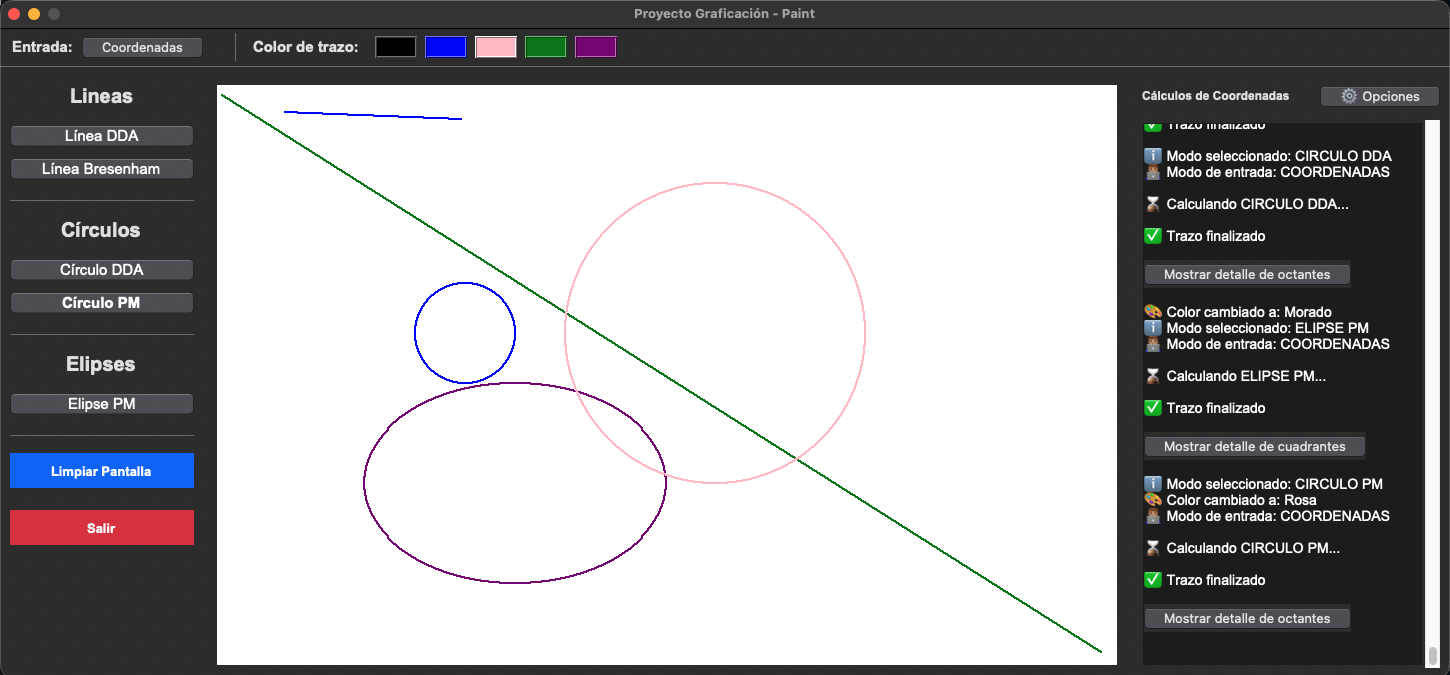
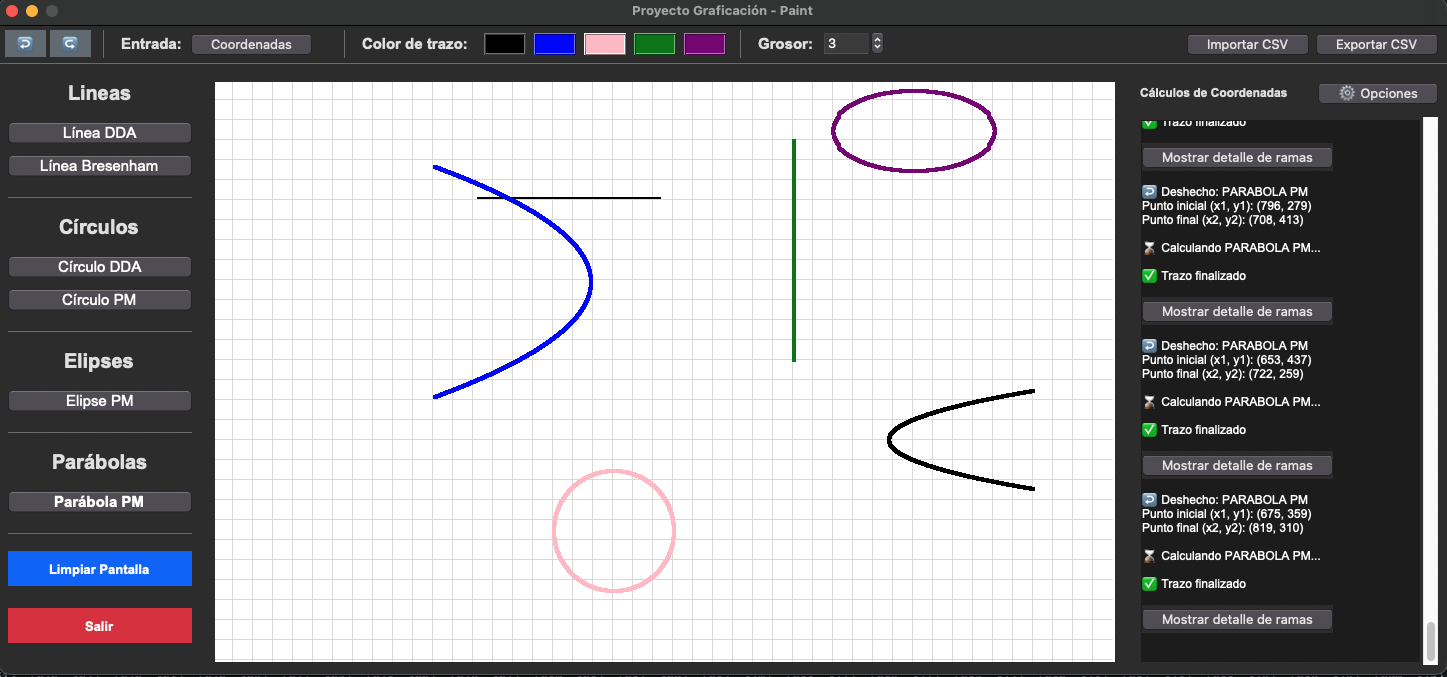
feat: update README and assets with new features, including CSV import/export, undo/redo, and additional UI elements

diff --git a/README.md b/README.md
@@ -3,7 +3,7 @@
 Este proyecto es una aplicación de escritorio desarrollada en Python utilizando Tkinter. Simula un programa de dibujo básico (estilo Paint) con el propósito de demostrar la implementación matemática pura de algoritmos fundamentales de graficación por computadora (rasterización de primitivas).
 
 **Autor:** Fernando Soriano  
-**Programa:** Ingeniería en Sistemas Computacionales
+**Programa:** Ingeniería en Sistemas Computacionales  
 **Materia:** Graficación por Computadora (GPC)
 
 ---
@@ -28,6 +28,19 @@ El núcleo de la aplicación radica en que **no utiliza funciones nativas** del 
 
 ---
 
+## ✨ Características Extra
+
+Además de los requerimientos base del proyecto, se agregaron las siguientes funcionalidades adicionales por decisión propia, para extender la utilidad de la aplicación más allá de lo solicitado originalmente:
+
+- **Exportación de coordenadas a CSV:** botón **"Exportar"** que guarda todos los trazos dibujados (herramienta, puntos, color, grosor y grupo de simetría) en un archivo `.csv`, seleccionando las columnas deseadas.
+- **Importación de coordenadas desde CSV:** botón **"Importar"** que lee un archivo `.csv` con el mismo formato exportado y reconstruye los trazos sobre el lienzo, permitiendo elegir entre reemplazar el dibujo actual o añadir los trazos importados a los existentes.
+- **Grosor de trazo configurable:** control tipo _Spinbox_ (1 a 10) en la barra superior para definir el grosor del "pixel" simulado antes de dibujar una nueva figura.
+- **Deshacer / Rehacer:** botones ↩️/↪️ para deshacer o rehacer el último trazo dibujado, con historial completo de la sesión de dibujo.
+- **Cuadrícula de fondo y modo oscuro del lienzo:** casillas de verificación en la ventana de opciones (⚙️) que alternan, en tiempo real, una cuadrícula de referencia sobre el lienzo y un tema oscuro para el área de dibujo.
+- **Animación de trazado:** opción que activa un renderizado progresivo (pixel por pixel, con velocidad configurable en ms) de líneas, círculos, elipses y parábolas, en lugar de dibujarlos de forma instantánea — útil para visualizar cómo avanza cada algoritmo.
+
+---
+
 ## 📂 Estructura del Proyecto
 
 El proyecto sigue una arquitectura Modelo-Vista-Controlador (MVC) simplificada para separar la lógica matemática de la interfaz gráfica.
@@ -38,13 +51,16 @@ proyecto_final/
 ├── controllers/
 │   └── app_controller.py   # Lógica de control, manejo de eventos (clics, botones) e instanciación de algoritmos.
 ├── ui/
-│   └── canvas_manager.py   # Manejo directo del lienzo (canvas), dibujado de pixeles y limpieza de pantalla.
+│   ├── canvas_manager.py   # Manejo directo del lienzo (canvas): dibujado de pixeles, cuadrícula, modo oscuro y redraw() del historial.
 │   └── main_window.py      # Definición de la vista (Tkinter), menús, paleta de colores y lienzo.
-└── algorithms/
-    ├── circunferencias.py  # Clases DDA y Punto Medio para círculos.
-    ├── elipse.py           # Clase con el algoritmo de Punto Medio para elipses.
-    ├── lineas.py           # Clases con los algoritmos DDA y Bresenham para líneas.
-    └── parabola.py         # Clase con el algoritmo para trazado de parábolas.
+├── algorithms/
+│   ├── circunferencias.py  # Clases DDA y Punto Medio para círculos.
+│   ├── elipse.py           # Clase con el algoritmo de Punto Medio para elipses.
+│   ├── lineas.py           # Clases con los algoritmos DDA y Bresenham para líneas.
+│   └── parabola.py         # Clase con el algoritmo de Punto Medio para trazado de parábolas.
+└── utils/
+    ├── export_data.py      # Exportación del historial de trazos a un archivo CSV.
+    └── import_data.py      # Reconstrucción de trazos a partir de un archivo CSV.
 ```
 
 ## 🛠️ Instrucciones de Ejecución
@@ -76,20 +92,41 @@ proyecto_final/
 
 ## 📸 Capturas de Pantalla
 
-![Interfaz principal de la aplicación mostrando trazos en el lienzo](assets/captura_principal.png)
+### Funcionalidad base
+
+![Interfaz principal de la aplicación mostrando trazos en el lienzo](assets/captura_principal.png)  
 _Vista general de la aplicación en ejecución, destacando el menú lateral de herramientas, la paleta de colores y el lienzo de dibujo._
 
 ---
 
-![Panel derecho de registro de cálculos y ventana de opciones de configuración](assets/ventana_opciones.png)
+![Panel derecho de registro de cálculos y ventana de opciones de configuración](assets/settings.png)  
 _Ventana modal para ajustar dinámicamente el tamaño de letra de los textos._
 
 ---
 
-![Formulario modal para ingresar de manera manual el radio y las coordenadas de un círculo](assets/coordenadas_circulo.png)
+![Formulario modal para ingresar de manera manual el radio y las coordenadas de un círculo](assets/circle-coords.png)  
 _Formulario de entrada que permite al usuario definir con precisión matemática los parámetros necesarios (X, Y, Radio) para el trazado de circunferencias._
 
 ---
 
-![Ventana secundaria de texto mostrando la lista completa y organizada de coordenadas calculadas](assets/detalles_coordenadas.png)
+![Ventana secundaria de texto mostrando la lista completa y organizada de coordenadas calculadas](assets/coords.png)  
 _Ventana de detalle independiente que despliega la matriz completa de píxeles generados por el algoritmo, organizada para su análisis sin saturar la interfaz principal._
+
+---
+
+### Características extra
+
+![Exportación de trazos a un archivo CSV](assets/export_csv.png)  
+_Diálogo para exportar el historial de trazos dibujados a un archivo CSV, seleccionando las columnas a incluir._
+
+![Importación de trazos desde un archivo CSV](assets/import_csv.png)  
+_Ventana de selección de modo de importación (reemplazar o añadir) al cargar un archivo CSV previamente exportado._
+
+![Control de grosor de trazo mediante Spinbox](assets/grosor_trazo.png)
+_Spinbox en la barra superior para ajustar el grosor del pixel simulado antes de dibujar una nueva figura._
+
+![Botones de deshacer y rehacer en la barra superior](assets/undo_redo.png)  
+_Botones ↩️/↪️ utilizados para deshacer y rehacer trazos sobre el lienzo._
+
+![Ventana de opciones con cuadrícula y modo oscuro activados](assets/grid_modo_oscuro.png)  
+_Animación de trazado, lienzo con la cuadrícula de referencia y el modo oscuro activados desde la ventana de opciones._